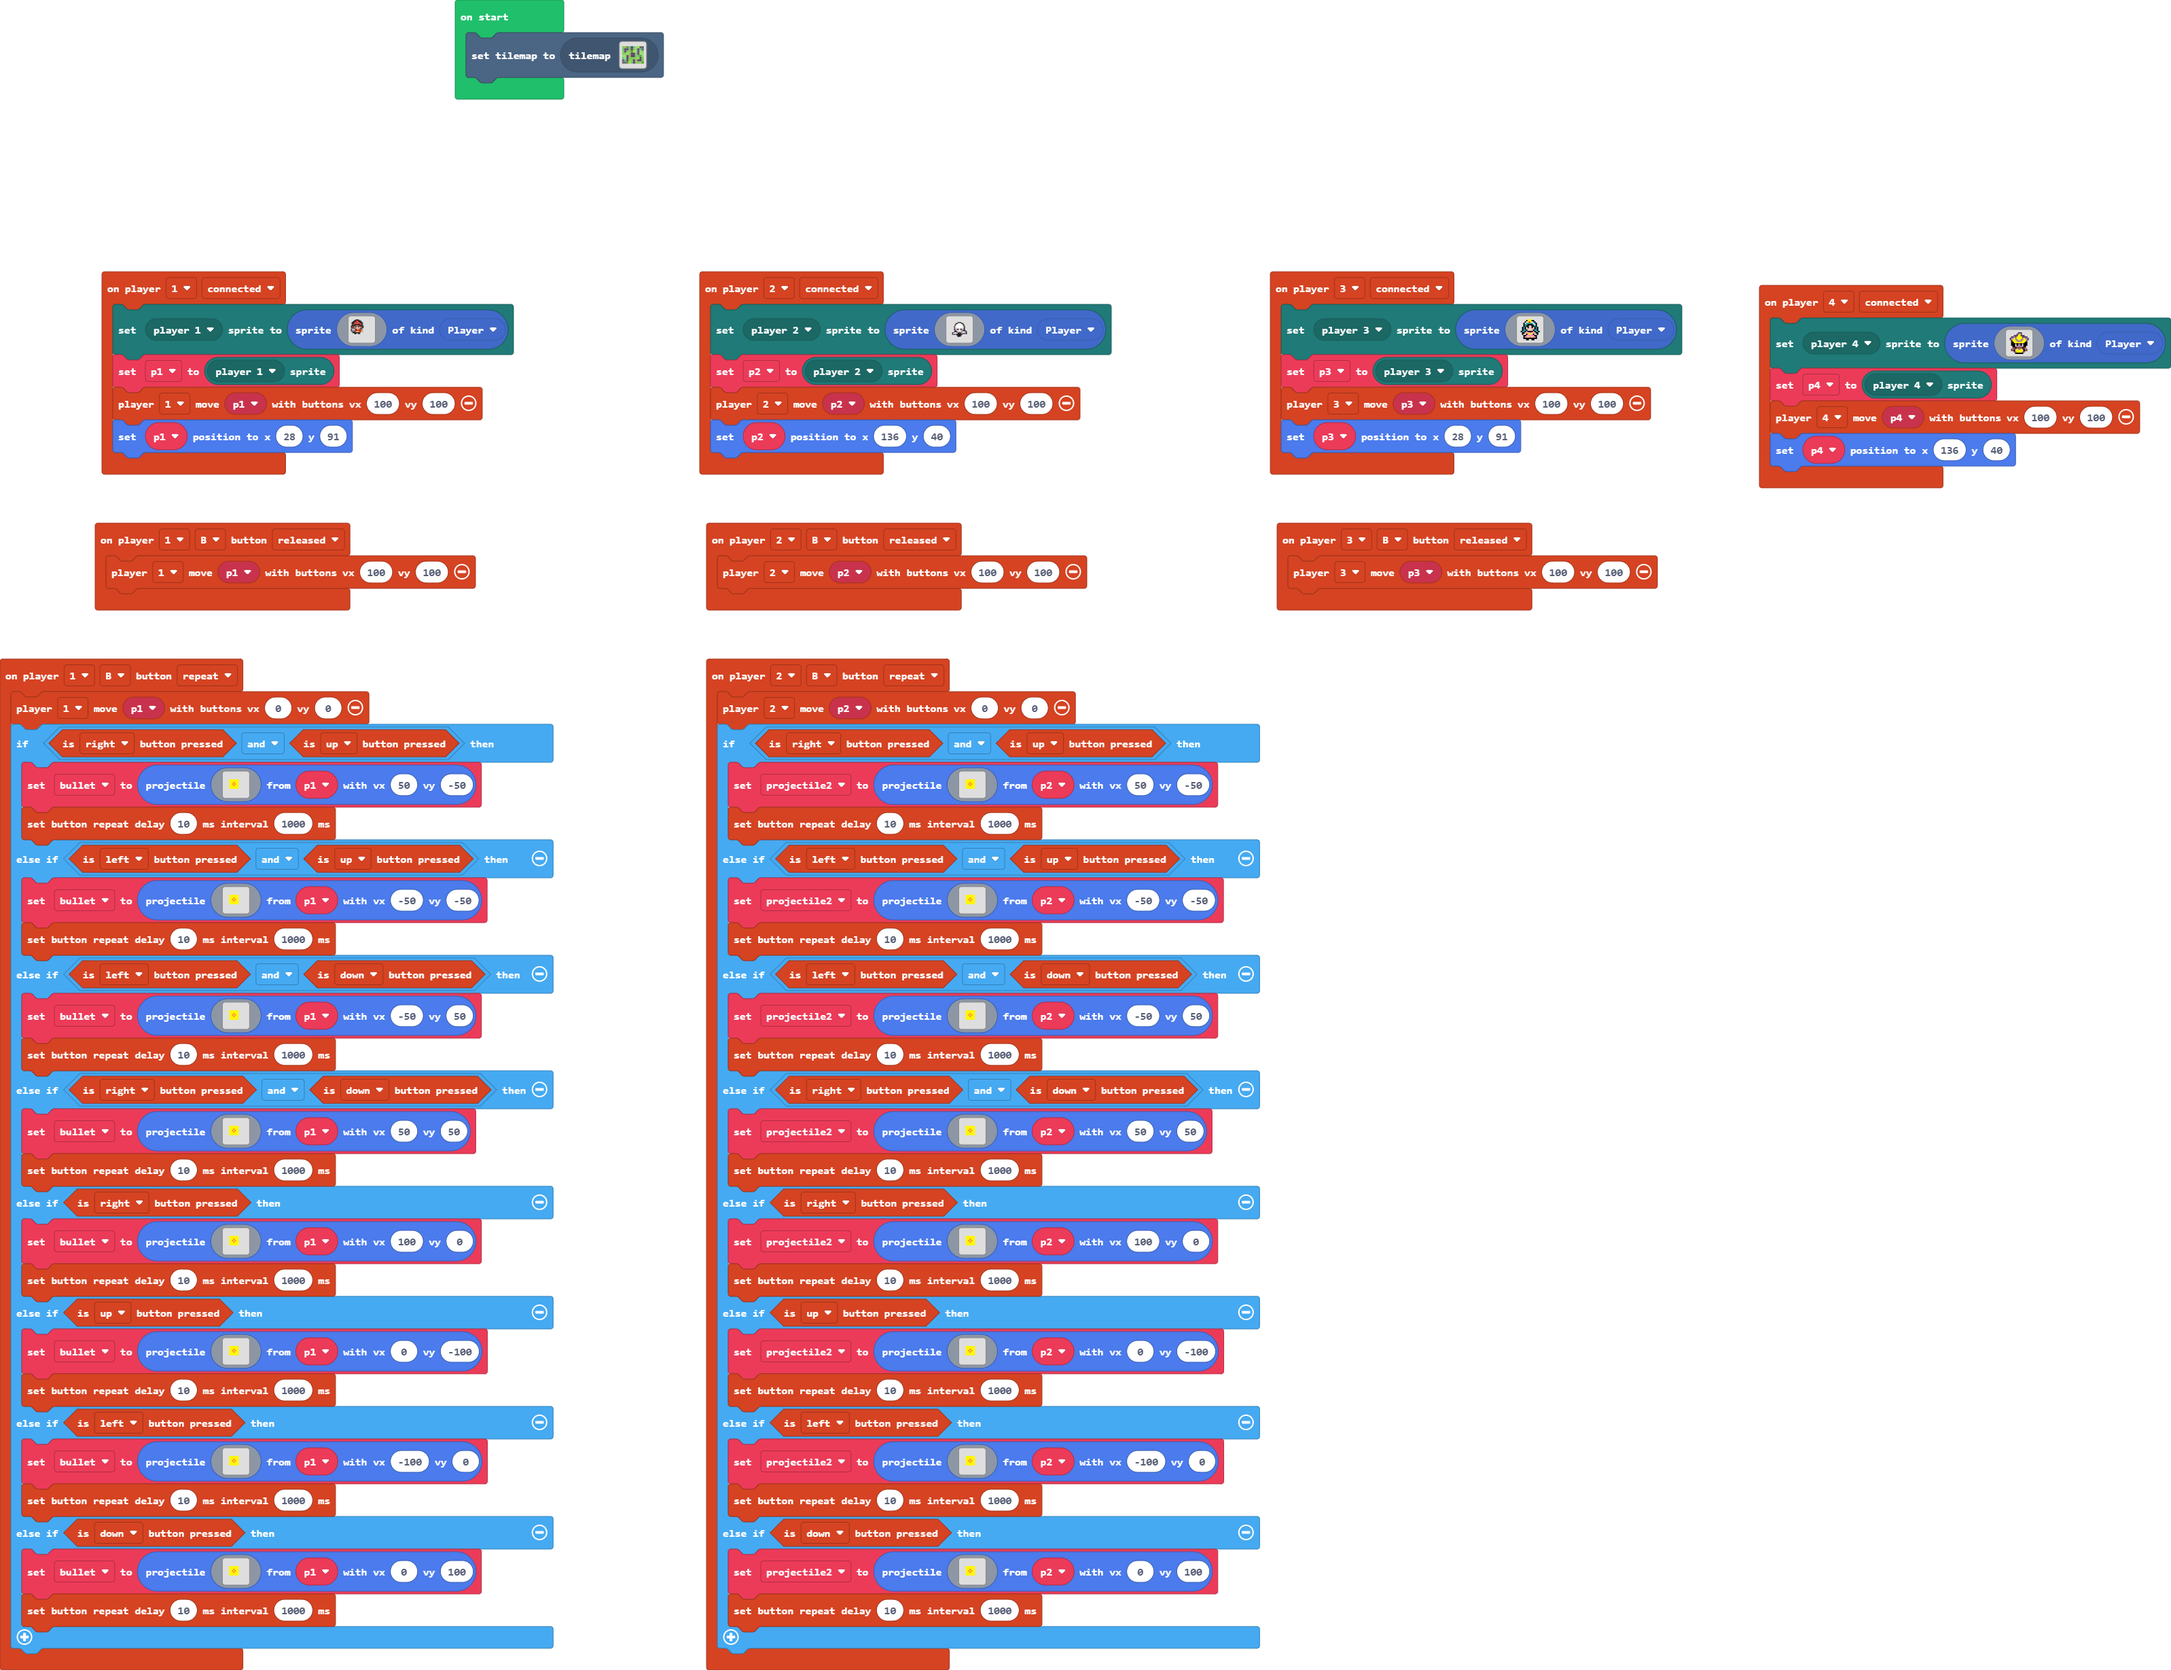
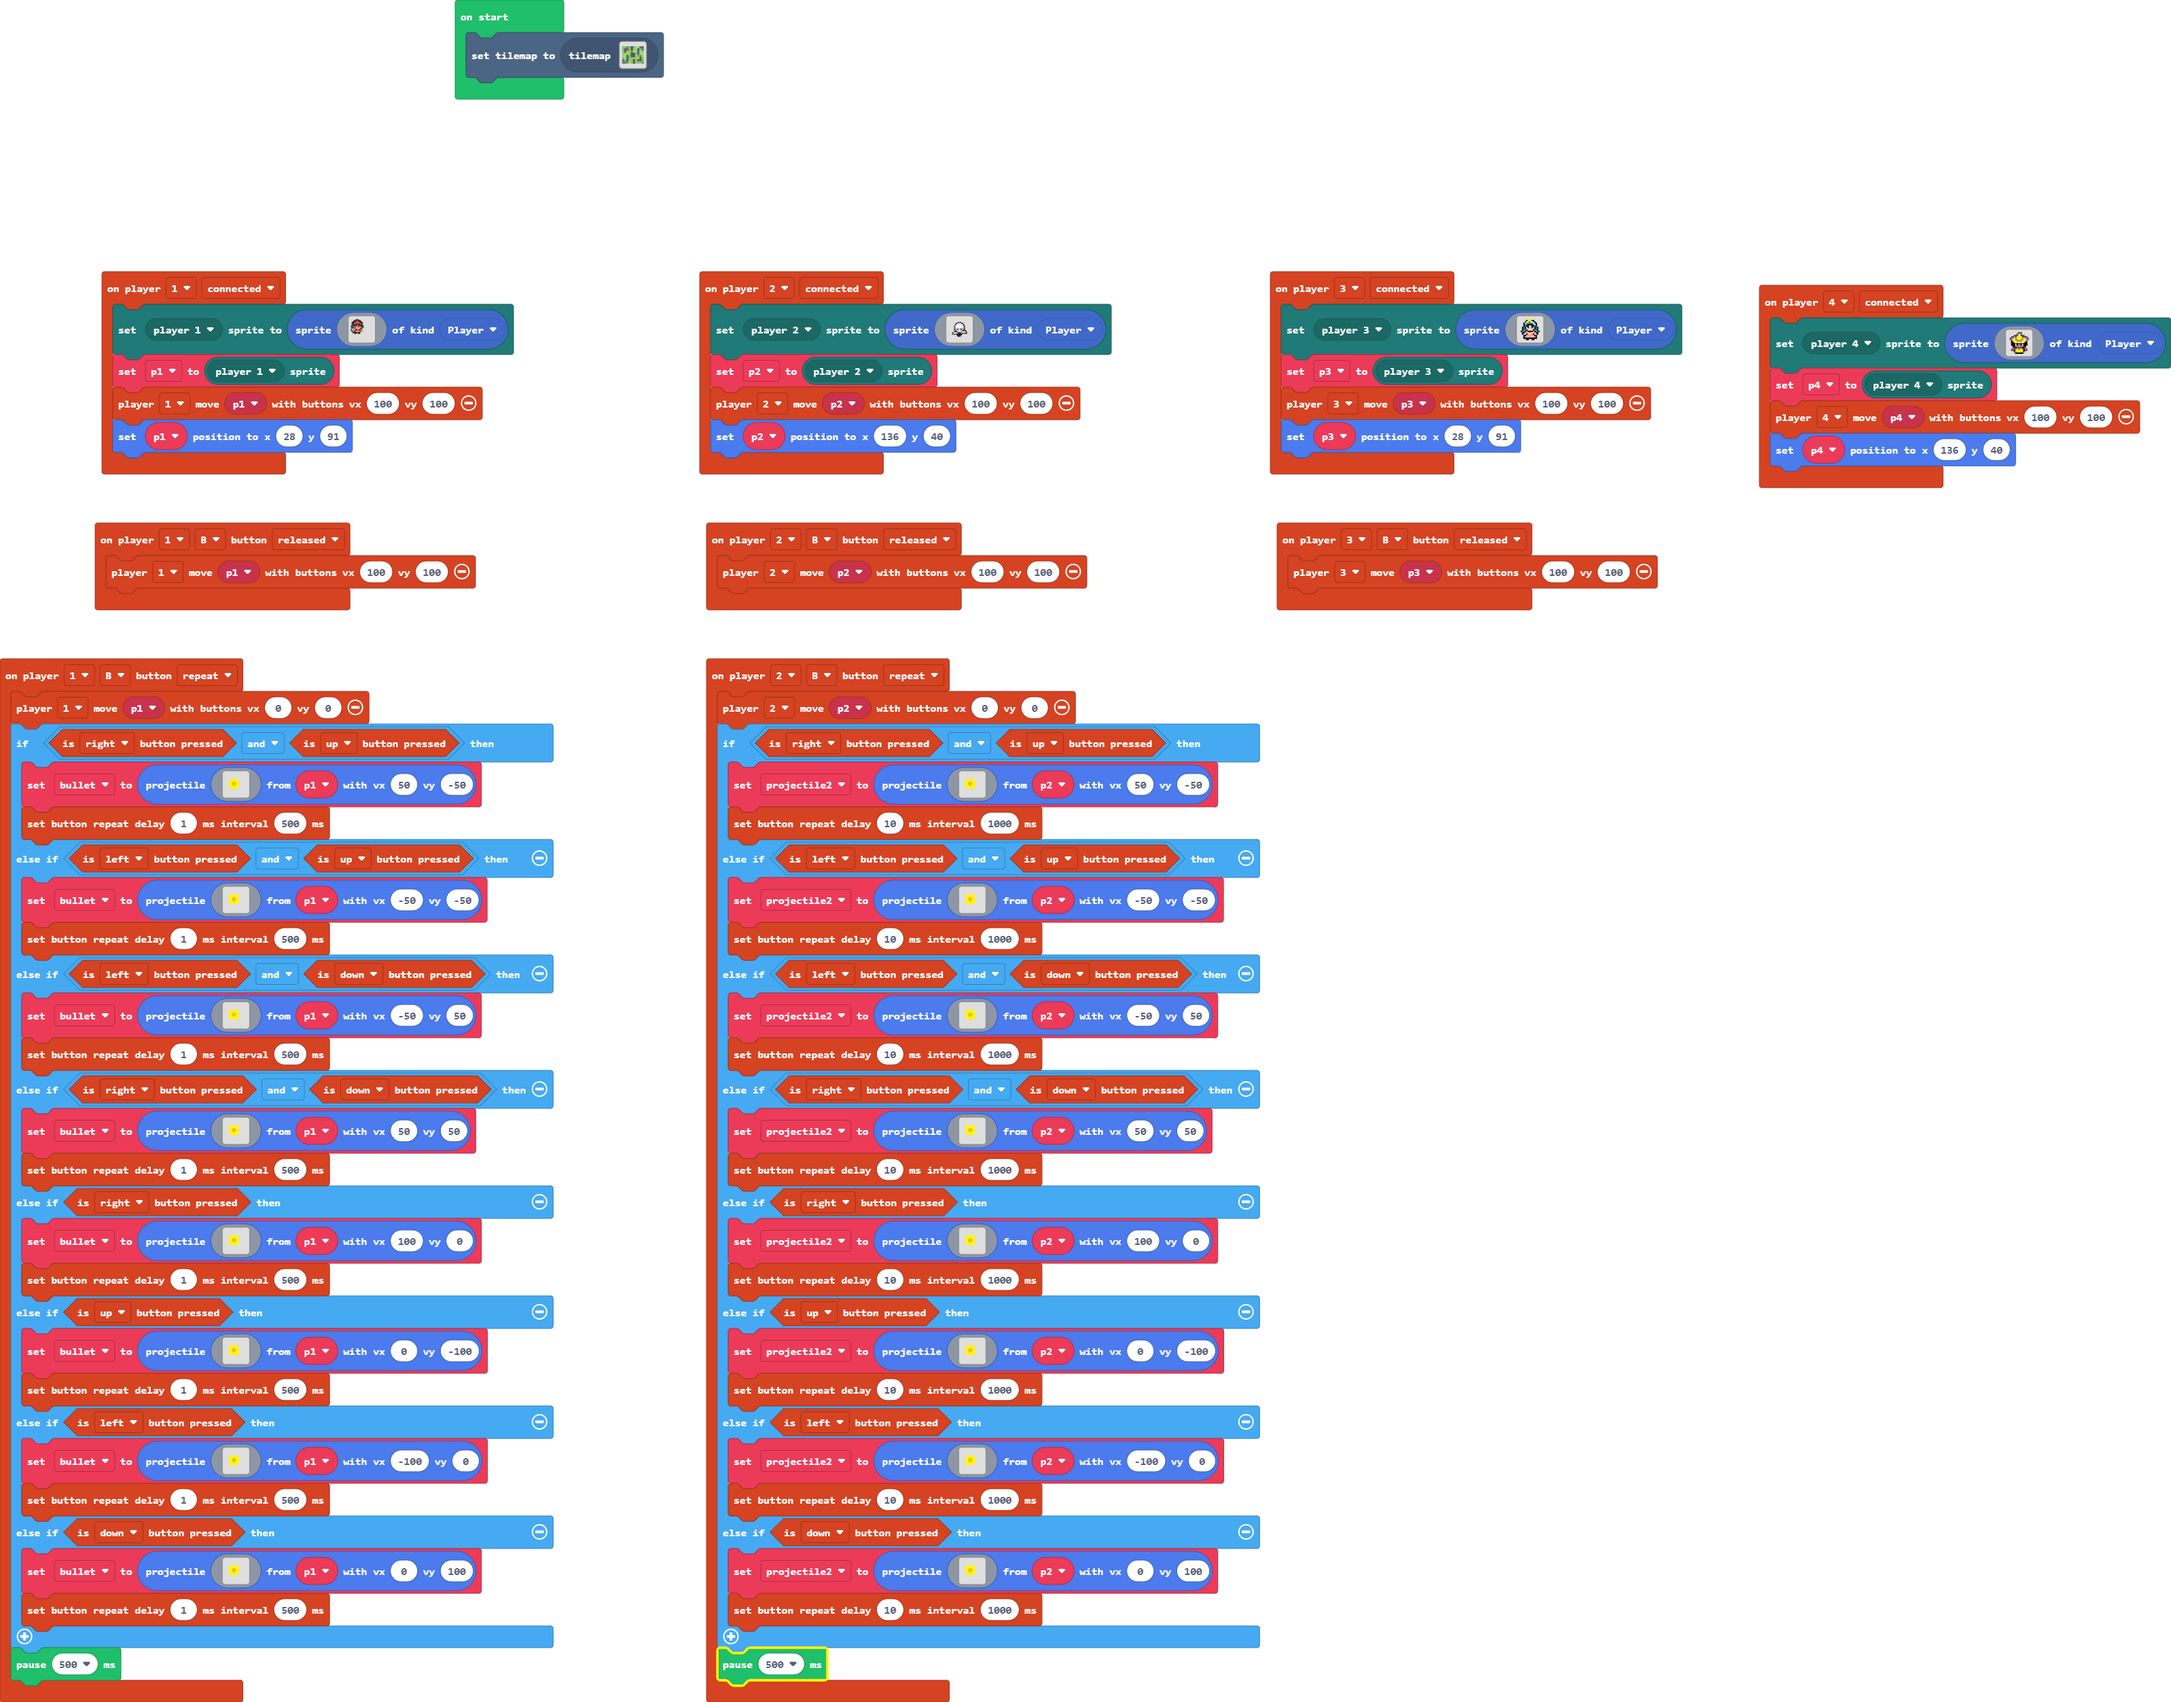
Update main.blocks, main.ts

diff --git a/main.ts b/main.ts
@@ -210,6 +210,7 @@ controller.player2.onButtonEvent(ControllerButton.B, ControllerButtonEvent.Repea
             `, p2, 0, 100)
         controller.configureRepeatEventDefaults(10, 1000)
     }
+    pause(500)
 })
 controller.player2.onButtonEvent(ControllerButton.B, ControllerButtonEvent.Released, function () {
     controller.player2.moveSprite(p2, 100, 100)
@@ -235,7 +236,7 @@ controller.player1.onButtonEvent(ControllerButton.B, ControllerButtonEvent.Repea
             . . . . . . . . . . . . . . . . 
             . . . . . . . . . . . . . . . . 
             `, p1, 50, -50)
-        controller.configureRepeatEventDefaults(10, 1000)
+        controller.configureRepeatEventDefaults(1, 500)
     } else if (controller.left.isPressed() && controller.up.isPressed()) {
         bullet = sprites.createProjectileFromSprite(img`
             . . . . . . . . . . . . . . . . 
@@ -255,7 +256,7 @@ controller.player1.onButtonEvent(ControllerButton.B, ControllerButtonEvent.Repea
             . . . . . . . . . . . . . . . . 
             . . . . . . . . . . . . . . . . 
             `, p1, -50, -50)
-        controller.configureRepeatEventDefaults(10, 1000)
+        controller.configureRepeatEventDefaults(1, 500)
     } else if (controller.left.isPressed() && controller.down.isPressed()) {
         bullet = sprites.createProjectileFromSprite(img`
             . . . . . . . . . . . . . . . . 
@@ -275,7 +276,7 @@ controller.player1.onButtonEvent(ControllerButton.B, ControllerButtonEvent.Repea
             . . . . . . . . . . . . . . . . 
             . . . . . . . . . . . . . . . . 
             `, p1, -50, 50)
-        controller.configureRepeatEventDefaults(10, 1000)
+        controller.configureRepeatEventDefaults(1, 500)
     } else if (controller.right.isPressed() && controller.down.isPressed()) {
         bullet = sprites.createProjectileFromSprite(img`
             . . . . . . . . . . . . . . . . 
@@ -295,7 +296,7 @@ controller.player1.onButtonEvent(ControllerButton.B, ControllerButtonEvent.Repea
             . . . . . . . . . . . . . . . . 
             . . . . . . . . . . . . . . . . 
             `, p1, 50, 50)
-        controller.configureRepeatEventDefaults(10, 1000)
+        controller.configureRepeatEventDefaults(1, 500)
     } else if (controller.right.isPressed()) {
         bullet = sprites.createProjectileFromSprite(img`
             . . . . . . . . . . . . . . . . 
@@ -315,7 +316,7 @@ controller.player1.onButtonEvent(ControllerButton.B, ControllerButtonEvent.Repea
             . . . . . . . . . . . . . . . . 
             . . . . . . . . . . . . . . . . 
             `, p1, 100, 0)
-        controller.configureRepeatEventDefaults(10, 1000)
+        controller.configureRepeatEventDefaults(1, 500)
     } else if (controller.up.isPressed()) {
         bullet = sprites.createProjectileFromSprite(img`
             . . . . . . . . . . . . . . . . 
@@ -335,7 +336,7 @@ controller.player1.onButtonEvent(ControllerButton.B, ControllerButtonEvent.Repea
             . . . . . . . . . . . . . . . . 
             . . . . . . . . . . . . . . . . 
             `, p1, 0, -100)
-        controller.configureRepeatEventDefaults(10, 1000)
+        controller.configureRepeatEventDefaults(1, 500)
     } else if (controller.left.isPressed()) {
         bullet = sprites.createProjectileFromSprite(img`
             . . . . . . . . . . . . . . . . 
@@ -355,7 +356,7 @@ controller.player1.onButtonEvent(ControllerButton.B, ControllerButtonEvent.Repea
             . . . . . . . . . . . . . . . . 
             . . . . . . . . . . . . . . . . 
             `, p1, -100, 0)
-        controller.configureRepeatEventDefaults(10, 1000)
+        controller.configureRepeatEventDefaults(1, 500)
     } else if (controller.down.isPressed()) {
         bullet = sprites.createProjectileFromSprite(img`
             . . . . . . . . . . . . . . . . 
@@ -375,8 +376,9 @@ controller.player1.onButtonEvent(ControllerButton.B, ControllerButtonEvent.Repea
             . . . . . . . . . . . . . . . . 
             . . . . . . . . . . . . . . . . 
             `, p1, 0, 100)
-        controller.configureRepeatEventDefaults(10, 1000)
+        controller.configureRepeatEventDefaults(1, 500)
     }
+    pause(500)
 })
 controller.player2.onEvent(ControllerEvent.Connected, function () {
     mp.setPlayerSprite(mp.playerSelector(mp.PlayerNumber.Two), sprites.create(img`
